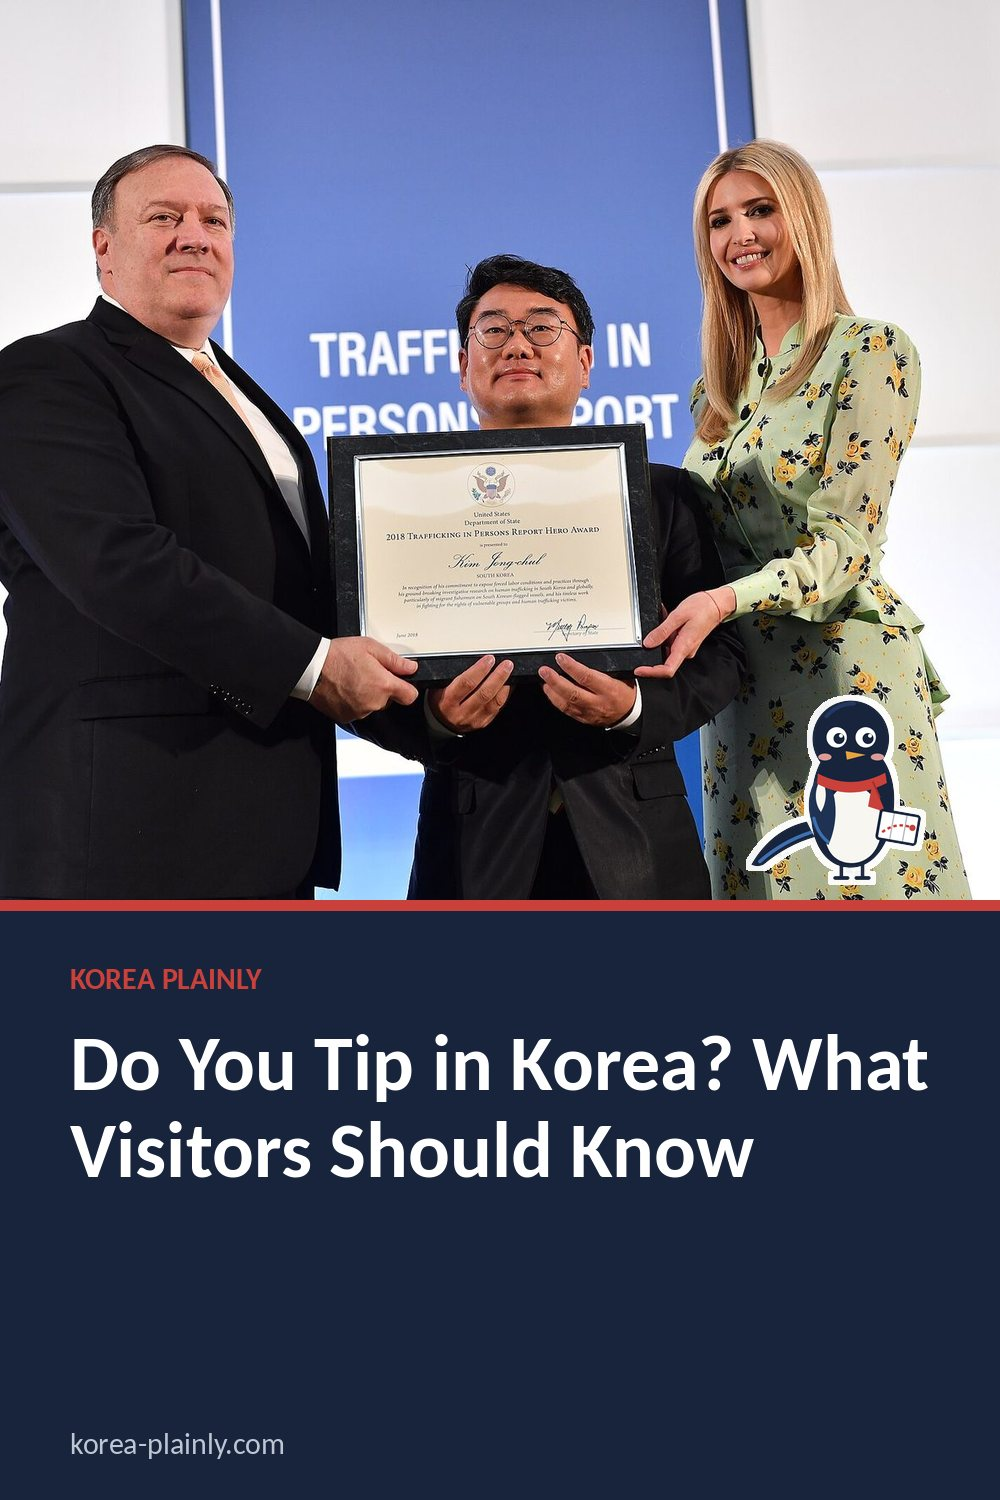
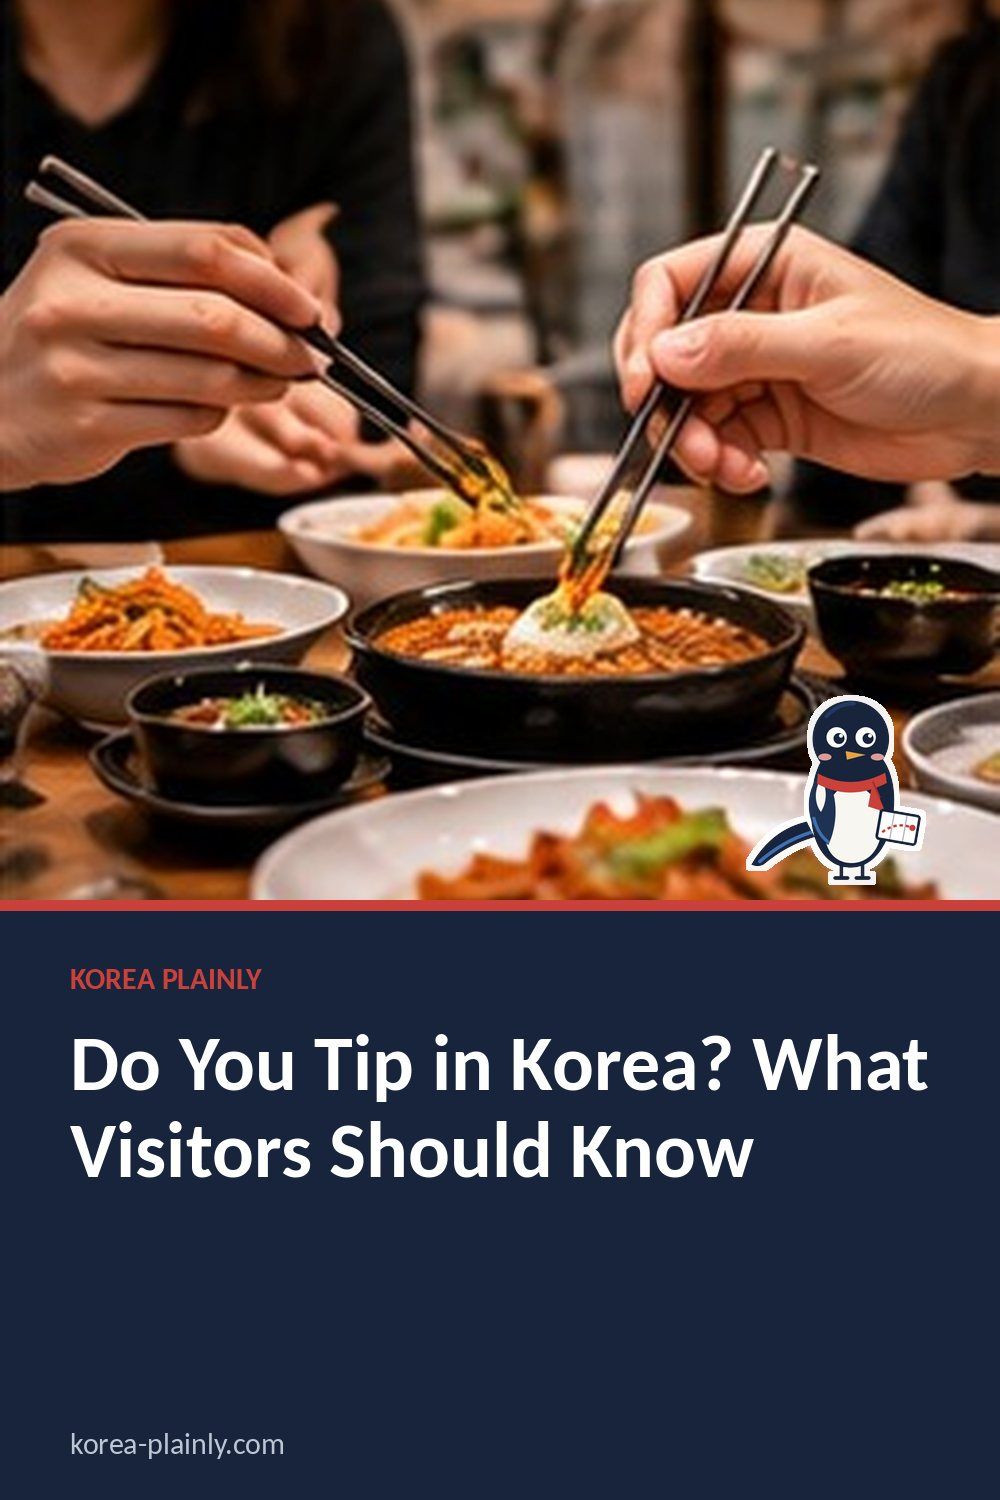
Tipping guide: use the dining photo; drop stale srcset when a photo is swapped
The Commons retry for tipping-in-korea found nothing better than a 'TIP Report'
award ceremony, so point it to thumb-dining-etiquette.jpg. responsive_images.py
left the old photo's srcset on pages whose new photo is too small for WebP
copies, so browsers kept loading the deleted copies; it now removes it.

Claude-Session: https://claude.ai/code/session_01E3Kx9ewtPyyn6LeWkcSbGg

diff --git a/tipping-in-korea.html b/tipping-in-korea.html
@@ -46,7 +46,7 @@ Do You Tip in Korea? What Visitors Should Know | Korea Plainly
 
 <meta
   property="og:image"
-  content="https://korea-plainly.com/photo-tipping-in-korea.jpg"
+  content="https://korea-plainly.com/thumb-dining-etiquette.jpg"
 >
 
 <meta
@@ -71,7 +71,7 @@ Do You Tip in Korea? What Visitors Should Know | Korea Plainly
 
 <meta
   name="twitter:image"
-  content="https://korea-plainly.com/photo-tipping-in-korea.jpg"
+  content="https://korea-plainly.com/thumb-dining-etiquette.jpg"
 >
 
 <style>
@@ -249,7 +249,7 @@ footer {
 <link rel="stylesheet" href="article.css?v=3">
 <link rel="stylesheet" href="https://fonts.googleapis.com/css2?family=DM+Sans:wght@400;500;600;700&family=Playfair+Display:ital,wght@0,600;1,600&display=swap">
 <link rel="icon" href="/favicon.svg" type="image/svg+xml">
-<script type="application/ld+json" id="kp-article-ld">{"@context": "https://schema.org", "@type": "Article", "headline": "Do You Tip in Korea? What Visitors Should Know", "description": "Tipping is not a normal part of everyday service in Korea. Learn what to expect at restaurants, in taxis, at hotels, and on tours—and what to do if a tip is requested.", "image": ["https://korea-plainly.com/photo-tipping-in-korea.jpg"], "datePublished": "2026-10-16", "dateModified": "2026-10-16", "author": {"@type": "Organization", "name": "Korea Plainly", "url": "https://korea-plainly.com/"}, "publisher": {"@type": "Organization", "name": "Korea Plainly", "url": "https://korea-plainly.com/"}, "mainEntityOfPage": "https://korea-plainly.com/tipping-in-korea.html"}</script>
+<script type="application/ld+json" id="kp-article-ld">{"@context": "https://schema.org", "@type": "Article", "headline": "Do You Tip in Korea? What Visitors Should Know", "description": "Tipping is not a normal part of everyday service in Korea. Learn what to expect at restaurants, in taxis, at hotels, and on tours—and what to do if a tip is requested.", "image": ["https://korea-plainly.com/thumb-dining-etiquette.jpg"], "datePublished": "2026-10-16", "dateModified": "2026-10-16", "author": {"@type": "Organization", "name": "Korea Plainly", "url": "https://korea-plainly.com/"}, "publisher": {"@type": "Organization", "name": "Korea Plainly", "url": "https://korea-plainly.com/"}, "mainEntityOfPage": "https://korea-plainly.com/tipping-in-korea.html"}</script>
 <script type="application/ld+json" id="kp-breadcrumb-ld">{"@context": "https://schema.org", "@type": "BreadcrumbList", "itemListElement": [{"@type": "ListItem", "position": 1, "name": "Home", "item": "https://korea-plainly.com/"}, {"@type": "ListItem", "position": 2, "name": "Guides", "item": "https://korea-plainly.com/guides.html"}, {"@type": "ListItem", "position": 3, "name": "Money", "item": "https://korea-plainly.com/guides.html?category=money"}, {"@type": "ListItem", "position": 4, "name": "Do You Tip in Korea? What Visitors Should Know", "item": "https://korea-plainly.com/tipping-in-korea.html"}]}</script>
 <meta property="article:published_time" content="2026-10-16">
 </head>
@@ -291,10 +291,9 @@ Tipping is not a normal part of everyday service in Korea. Learn what to expect 
 
 <img
   class="cover"
-  src="photo-tipping-in-korea.jpg"
-  alt="Customer paying a restaurant bill in Korea" srcset="img/photo-tipping-in-korea.557d9f80.w480.webp 480w, img/photo-tipping-in-korea.557d9f80.w800.webp 800w, img/photo-tipping-in-korea.557d9f80.w1200.webp 1200w, photo-tipping-in-korea.jpg 1600w" sizes="(max-width: 860px) 100vw, 820px" fetchpriority="high"
+  src="thumb-dining-etiquette.jpg"
+  alt="Customer paying a restaurant bill in Korea" fetchpriority="high"
 >
-<p class="photo-credit" data-kp="photo-credit" style="font-size:12px;color:#777;margin:-18px 0 24px"><a href="https://commons.wikimedia.org/wiki/File:Secretary_Pompeo_Presents_Certificate_to_2018_%27TIP_Report_Hero%27_Kim_Jong-chul_of_South_Korea_(43078724031).jpg" target="_blank" rel="noopener nofollow" style="color:inherit">Photo: U.S. Department of State from United States, Public domain, via Wikimedia Commons</a></p>
 
 <article>
 

diff --git a/guides.html b/guides.html
@@ -1624,7 +1624,7 @@ class="guide-card"
 href="tipping-in-korea.html" data-guide-category="money"
 >
 
-<div class="guide-image" data-thumb="photo-tipping-in-korea.jpg"><img class="guide-thumb" src="photo-tipping-in-korea.jpg" alt="" loading="eager" srcset="img/photo-tipping-in-korea.557d9f80.w480.webp 480w, img/photo-tipping-in-korea.557d9f80.w800.webp 800w, img/photo-tipping-in-korea.557d9f80.w1200.webp 1200w, photo-tipping-in-korea.jpg 1600w" sizes="(max-width: 600px) 100vw, (max-width: 1000px) 50vw, 400px" decoding="async">
+<div class="guide-image" data-thumb="thumb-dining-etiquette.jpg"><img class="guide-thumb" src="thumb-dining-etiquette.jpg" alt="" loading="eager" decoding="async">
 
 <span>
 23

diff --git a/scripts/responsive_images.py b/scripts/responsive_images.py
@@ -67,6 +67,10 @@ def fix_img(tag):
         return tag
     v = variants(src.group(1))
     if not v:
+        # the photo was swapped for a small one: drop a srcset this step wrote for the old photo,
+        # or browsers keep showing the old (soon deleted) copies
+        if re.search(r'\ssrcset="[^"]*img/[^"]*\.webp', tag):
+            tag = re.sub(r'\s(?:srcset|sizes)="[^"]*"', "", tag)
         return tag
     cover = re.search(r'class="[^"]*\bcover\b', tag) is not None
     # remove what this step adds, then add it again in a fixed order (keeps reruns stable)
